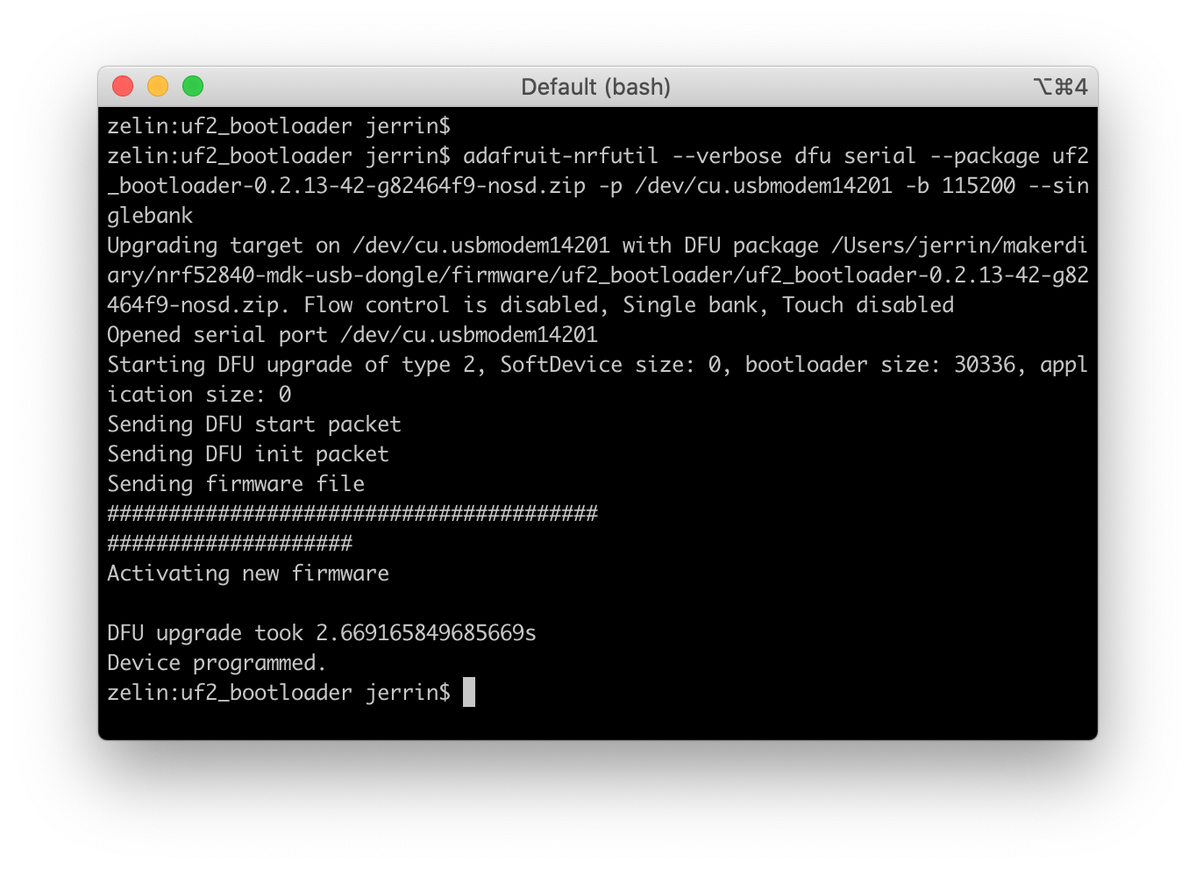
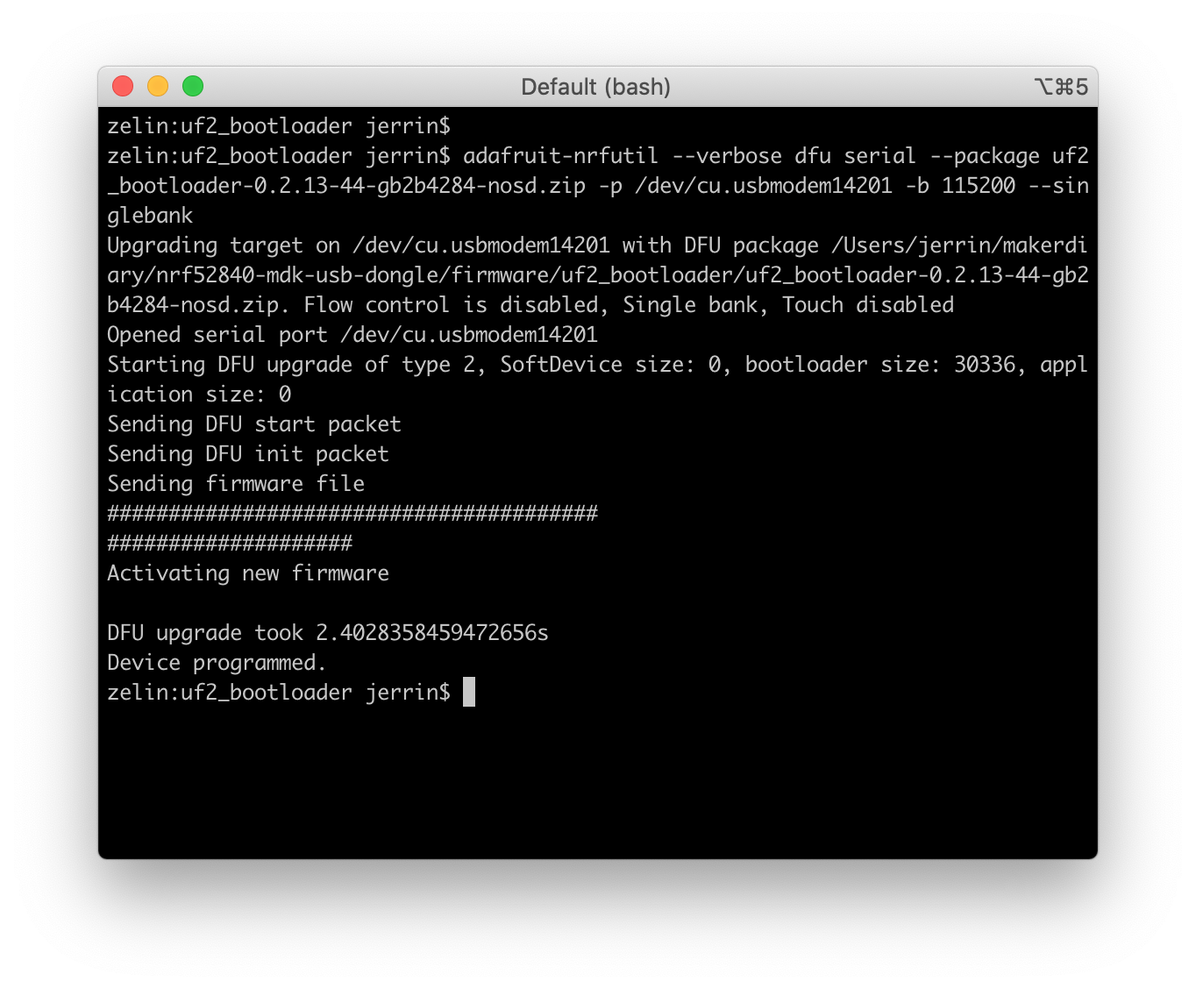
Update UF2 Bootloader to v0.2.13-44

Changed region(s): [[0.0616, 0.0625, 0.9238, 0.8125], [0.0616, 0.8438, 0.9238, 0.875], [0.8006, 0.4062, 0.9238, 0.4375]]

diff --git a/opensk/getting-started/index.html b/opensk/getting-started/index.html
@@ -19,5 +19,5 @@
       })
     }
   })
-</script><script async src=https://www.google-analytics.com/analytics.js></script></head> <body dir=ltr data-md-color-primary=red-bud data-md-color-accent=red-bud> <svg class=md-svg> <defs> <svg xmlns=http://www.w3.org/2000/svg width=416 height=448 viewbox="0 0 416 448" id=__github><path fill=currentColor d="M160 304q0 10-3.125 20.5t-10.75 19T128 352t-18.125-8.5-10.75-19T96 304t3.125-20.5 10.75-19T128 256t18.125 8.5 10.75 19T160 304zm160 0q0 10-3.125 20.5t-10.75 19T288 352t-18.125-8.5-10.75-19T256 304t3.125-20.5 10.75-19T288 256t18.125 8.5 10.75 19T320 304zm40 0q0-30-17.25-51T296 232q-10.25 0-48.75 5.25Q229.5 240 208 240t-39.25-2.75Q130.75 232 120 232q-29.5 0-46.75 21T56 304q0 22 8 38.375t20.25 25.75 30.5 15 35 7.375 37.25 1.75h42q20.5 0 37.25-1.75t35-7.375 30.5-15 20.25-25.75T360 304zm56-44q0 51.75-15.25 82.75-9.5 19.25-26.375 33.25t-35.25 21.5-42.5 11.875-42.875 5.5T212 416q-19.5 0-35.5-.75t-36.875-3.125-38.125-7.5-34.25-12.875T37 371.5t-21.5-28.75Q0 312 0 260q0-59.25 34-99-6.75-20.5-6.75-42.5 0-29 12.75-54.5 27 0 47.5 9.875t47.25 30.875Q171.5 96 212 96q37 0 70 8 26.25-20.5 46.75-30.25T376 64q12.75 25.5 12.75 54.5 0 21.75-6.75 42 34 40 34 99.5z"/></svg> </defs> </svg> <input class=md-toggle data-md-toggle=drawer type=checkbox id=__drawer autocomplete=off> <input class=md-toggle data-md-toggle=search type=checkbox id=__search autocomplete=off> <label class=md-overlay data-md-component=overlay for=__drawer></label> <a href=#getting-started-with-opensk tabindex=0 class=md-skip> Skip to content </a> <header class=md-header data-md-component=header> <nav class="md-header-nav md-grid"> <div class=md-flex> <div class="md-flex__cell md-flex__cell--shrink"> <a href=https://wiki.makerdiary.com/nrf52840-mdk-usb-dongle/ title="nRF52840 MDK USB Dongle" aria-label="nRF52840 MDK USB Dongle" class="md-header-nav__button md-logo"> <img alt=logo src=../../assets/images/logo.svg width=24 height=24> </a> </div> <div class="md-flex__cell md-flex__cell--shrink"> <label class="md-icon md-icon--menu md-header-nav__button" for=__drawer></label> </div> <div class="md-flex__cell md-flex__cell--stretch"> <div class="md-flex__ellipsis md-header-nav__title" data-md-component=title> <span class=md-header-nav__topic> nRF52840 MDK USB Dongle </span> <span class=md-header-nav__topic> Getting Started </span> </div> </div> <div class="md-flex__cell md-flex__cell--shrink"> <label class="md-icon md-icon--search md-header-nav__button" for=__search></label> <div class=md-search data-md-component=search role=dialog> <label class=md-search__overlay for=__search></label> <div class=md-search__inner role=search> <form class=md-search__form name=search> <input type=text class=md-search__input aria-label=search name=query placeholder=Search autocapitalize=off autocorrect=off autocomplete=off spellcheck=false data-md-component=query data-md-state=active> <label class="md-icon md-search__icon" for=__search></label> <button type=reset class="md-icon md-search__icon" data-md-component=reset tabindex=-1> &#xE5CD; </button> </form> <div class=md-search__output> <div class=md-search__scrollwrap data-md-scrollfix> <div class=md-search-result data-md-component=result> <div class=md-search-result__meta> Type to start searching </div> <ol class=md-search-result__list></ol> </div> </div> </div> </div> </div> </div> <div class="md-flex__cell md-flex__cell--shrink"> <div class=md-header-nav__source> <a href=https://github.com/makerdiary/nrf52840-mdk-usb-dongle/ title="Go to repository" class=md-source data-md-source=github> <div class=md-source__icon> <svg viewbox="0 0 24 24" width=24 height=24> <use xlink:href=#__github width=24 height=24></use> </svg> </div> <div class=md-source__repository> nrf52840-mdk-usb-dongle </div> </a> </div> </div> </div> </nav> </header> <div class=md-container> <nav class="md-tabs md-tabs--active" data-md-component=tabs> <div class="md-tabs__inner md-grid"> <ul class=md-tabs__list> <li class=md-tabs__item> <a href=../.. class=md-tabs__link> Introduction </a> </li> <li class=md-tabs__item> <a href=../ class="md-tabs__link md-tabs__link--active"> OpenSK </a> </li> </ul> </div> </nav> <main class=md-main role=main> <div class="md-main__inner md-grid" data-md-component=container> <div class="md-sidebar md-sidebar--primary" data-md-component=navigation> <div class=md-sidebar__scrollwrap> <div class=md-sidebar__inner> <nav class="md-nav md-nav--primary" data-md-level=0> <label class="md-nav__title md-nav__title--site" for=__drawer> <a href=https://wiki.makerdiary.com/nrf52840-mdk-usb-dongle/ title="nRF52840 MDK USB Dongle" class="md-nav__button md-logo"> <img alt=logo src=../../assets/images/logo.svg width=48 height=48> </a> nRF52840 MDK USB Dongle </label> <div class=md-nav__source> <a href=https://github.com/makerdiary/nrf52840-mdk-usb-dongle/ title="Go to repository" class=md-source data-md-source=github> <div class=md-source__icon> <svg viewbox="0 0 24 24" width=24 height=24> <use xlink:href=#__github width=24 height=24></use> </svg> </div> <div class=md-source__repository> nrf52840-mdk-usb-dongle </div> </a> </div> <ul class=md-nav__list data-md-scrollfix> <li class=md-nav__item> <a href=../.. title=Introduction class=md-nav__link> Introduction </a> </li> <li class=md-nav__item> <a href=../../getting-started/ title="Getting Started" class=md-nav__link> Getting Started </a> </li> <li class=md-nav__item> <a href=../../programming/ title=Programming class=md-nav__link> Programming </a> </li> <li class=md-nav__item> <a href=../../nrf5-sdk/ title="nRF5 SDK" class=md-nav__link> nRF5 SDK </a> </li> <li class=md-nav__item> <a href=../../OTBR/ title="OpenThread Border Router" class=md-nav__link> OpenThread Border Router </a> </li> <li class=md-nav__item> <a href=../../thread-sniffer/ title="Thread Network Sniffer" class=md-nav__link> Thread Network Sniffer </a> </li> <li class="md-nav__item md-nav__item--active md-nav__item--nested"> <input class="md-toggle md-nav__toggle" data-md-toggle=nav-7 type=checkbox id=nav-7 checked> <label class=md-nav__link for=nav-7> OpenSK </label> <nav class=md-nav data-md-component=collapsible data-md-level=1> <label class=md-nav__title for=nav-7> OpenSK </label> <ul class=md-nav__list data-md-scrollfix> <li class=md-nav__item> <a href=../ title=Overview class=md-nav__link> Overview </a> </li> <li class="md-nav__item md-nav__item--active"> <input class="md-toggle md-nav__toggle" data-md-toggle=toc type=checkbox id=__toc> <label class="md-nav__link md-nav__link--active" for=__toc> Getting Started </label> <a href=./ title="Getting Started" class="md-nav__link md-nav__link--active"> Getting Started </a> <nav class="md-nav md-nav--secondary"> <label class=md-nav__title for=__toc>Table of contents</label> <ul class=md-nav__list data-md-scrollfix> <li class=md-nav__item> <a href=#introduction class=md-nav__link> Introduction </a> </li> <li class=md-nav__item> <a href=#what-youll-need class=md-nav__link> What you'll need </a> </li> <li class=md-nav__item> <a href=#upgrade-to-uf2-bootloader class=md-nav__link> Upgrade to UF2 Bootloader </a> </li> <li class=md-nav__item> <a href=#flash-opensk-via-uf2-bootloader class=md-nav__link> Flash OpenSK via UF2 Bootloader </a> </li> <li class=md-nav__item> <a href=#test-opensk class=md-nav__link> Test OpenSK </a> </li> <li class=md-nav__item> <a href=#explore-more class=md-nav__link> Explore More </a> </li> <li class=md-nav__item> <a href=#create-an-issue class=md-nav__link> Create an Issue </a> </li> </ul> </nav> </li> <li class=md-nav__item> <a href=../building/ title="How to build OpenSK" class=md-nav__link> How to build OpenSK </a> </li> </ul> </nav> </li> <li class=md-nav__item> <a href=../../how-to-buy/ title="How to Buy" class=md-nav__link> How to Buy </a> </li> <li class=md-nav__item> <a href=../../CONTRIBUTING/ title=Contributing class=md-nav__link> Contributing </a> </li> <li class=md-nav__item> <a href=../../LICENSE/ title=License class=md-nav__link> License </a> </li> </ul> </nav> </div> </div> </div> <div class="md-sidebar md-sidebar--secondary" data-md-component=toc> <div class=md-sidebar__scrollwrap> <div class=md-sidebar__inner> <nav class="md-nav md-nav--secondary"> <label class=md-nav__title for=__toc>Table of contents</label> <ul class=md-nav__list data-md-scrollfix> <li class=md-nav__item> <a href=#introduction class=md-nav__link> Introduction </a> </li> <li class=md-nav__item> <a href=#what-youll-need class=md-nav__link> What you'll need </a> </li> <li class=md-nav__item> <a href=#upgrade-to-uf2-bootloader class=md-nav__link> Upgrade to UF2 Bootloader </a> </li> <li class=md-nav__item> <a href=#flash-opensk-via-uf2-bootloader class=md-nav__link> Flash OpenSK via UF2 Bootloader </a> </li> <li class=md-nav__item> <a href=#test-opensk class=md-nav__link> Test OpenSK </a> </li> <li class=md-nav__item> <a href=#explore-more class=md-nav__link> Explore More </a> </li> <li class=md-nav__item> <a href=#create-an-issue class=md-nav__link> Create an Issue </a> </li> </ul> </nav> </div> </div> </div> <div class=md-content> <article class="md-content__inner md-typeset"> <a href=https://github.com/makerdiary/nrf52840-mdk-usb-dongle/docs/opensk/getting-started.md title="Edit this page" class="md-icon md-content__icon">&#xE3C9;</a> <h1 id=getting-started-with-opensk>Getting Started with OpenSK<a class=headerlink href=#getting-started-with-opensk title="Permanent link">&para;</a></h1> <h2 id=introduction>Introduction<a class=headerlink href=#introduction title="Permanent link">&para;</a></h2> <p>This guide details how to get started with the OpenSK using the nRF52840 MDK USB Dongle without going through the complete toolchain installation.</p> <h2 id=what-youll-need>What you'll need<a class=headerlink href=#what-youll-need title="Permanent link">&para;</a></h2> <ul> <li>An <a href="https://store.makerdiary.com/search?q=nrf52840+dongle">nRF52840 MDK USB Dongle</a></li> <li>Latest version of Google Chrome browser (or at least version 38) or Firefox browser</li> </ul> <h2 id=upgrade-to-uf2-bootloader>Upgrade to UF2 Bootloader<a class=headerlink href=#upgrade-to-uf2-bootloader title="Permanent link">&para;</a></h2> <p>The nRF52840 MDK USB Dongle was previously shipped with <a href=https://github.com/makerdiary/nrf52840-mdk-usb-dongle/tree/master/firmware/open_bootloader>Open Bootloader</a> with Device Firmware Update (DFU) functionality.</p> <p>Currently, the prebuilt OpenSK firmware only works with the UF2 Bootloader. If your dongle is using UF2 Bootloader, just skip this step.</p> <div class="admonition note"> <p class=admonition-title>Note</p> <p>As Open Bootloader update must come from signed packages, the new UF2 Bootloader must be signed. The signed package is located in: <a href=https://github.com/makerdiary/nrf52840-mdk-usb-dongle/tree/master/firmware/open_bootloader>firmware/open_bootloader/uf2_bootloader-0.2.13-42-g82464f9-nosd_signed.zip</a></p> </div> <p>Enter DFU mode by holding the dongle's RESET/USR button and connecting to your PC. Use the following command to update firmware:</p> <div class=codehilite><pre><span></span>nrfutil dfu usb-serial -pkg uf2_bootloader-0.2.13-42-g82464f9-nosd_signed.zip -p &lt;your-serial-port-name&gt;
+</script><script async src=https://www.google-analytics.com/analytics.js></script></head> <body dir=ltr data-md-color-primary=red-bud data-md-color-accent=red-bud> <svg class=md-svg> <defs> <svg xmlns=http://www.w3.org/2000/svg width=416 height=448 viewbox="0 0 416 448" id=__github><path fill=currentColor d="M160 304q0 10-3.125 20.5t-10.75 19T128 352t-18.125-8.5-10.75-19T96 304t3.125-20.5 10.75-19T128 256t18.125 8.5 10.75 19T160 304zm160 0q0 10-3.125 20.5t-10.75 19T288 352t-18.125-8.5-10.75-19T256 304t3.125-20.5 10.75-19T288 256t18.125 8.5 10.75 19T320 304zm40 0q0-30-17.25-51T296 232q-10.25 0-48.75 5.25Q229.5 240 208 240t-39.25-2.75Q130.75 232 120 232q-29.5 0-46.75 21T56 304q0 22 8 38.375t20.25 25.75 30.5 15 35 7.375 37.25 1.75h42q20.5 0 37.25-1.75t35-7.375 30.5-15 20.25-25.75T360 304zm56-44q0 51.75-15.25 82.75-9.5 19.25-26.375 33.25t-35.25 21.5-42.5 11.875-42.875 5.5T212 416q-19.5 0-35.5-.75t-36.875-3.125-38.125-7.5-34.25-12.875T37 371.5t-21.5-28.75Q0 312 0 260q0-59.25 34-99-6.75-20.5-6.75-42.5 0-29 12.75-54.5 27 0 47.5 9.875t47.25 30.875Q171.5 96 212 96q37 0 70 8 26.25-20.5 46.75-30.25T376 64q12.75 25.5 12.75 54.5 0 21.75-6.75 42 34 40 34 99.5z"/></svg> </defs> </svg> <input class=md-toggle data-md-toggle=drawer type=checkbox id=__drawer autocomplete=off> <input class=md-toggle data-md-toggle=search type=checkbox id=__search autocomplete=off> <label class=md-overlay data-md-component=overlay for=__drawer></label> <a href=#getting-started-with-opensk tabindex=0 class=md-skip> Skip to content </a> <header class=md-header data-md-component=header> <nav class="md-header-nav md-grid"> <div class=md-flex> <div class="md-flex__cell md-flex__cell--shrink"> <a href=https://wiki.makerdiary.com/nrf52840-mdk-usb-dongle/ title="nRF52840 MDK USB Dongle" aria-label="nRF52840 MDK USB Dongle" class="md-header-nav__button md-logo"> <img alt=logo src=../../assets/images/logo.svg width=24 height=24> </a> </div> <div class="md-flex__cell md-flex__cell--shrink"> <label class="md-icon md-icon--menu md-header-nav__button" for=__drawer></label> </div> <div class="md-flex__cell md-flex__cell--stretch"> <div class="md-flex__ellipsis md-header-nav__title" data-md-component=title> <span class=md-header-nav__topic> nRF52840 MDK USB Dongle </span> <span class=md-header-nav__topic> Getting Started </span> </div> </div> <div class="md-flex__cell md-flex__cell--shrink"> <label class="md-icon md-icon--search md-header-nav__button" for=__search></label> <div class=md-search data-md-component=search role=dialog> <label class=md-search__overlay for=__search></label> <div class=md-search__inner role=search> <form class=md-search__form name=search> <input type=text class=md-search__input aria-label=search name=query placeholder=Search autocapitalize=off autocorrect=off autocomplete=off spellcheck=false data-md-component=query data-md-state=active> <label class="md-icon md-search__icon" for=__search></label> <button type=reset class="md-icon md-search__icon" data-md-component=reset tabindex=-1> &#xE5CD; </button> </form> <div class=md-search__output> <div class=md-search__scrollwrap data-md-scrollfix> <div class=md-search-result data-md-component=result> <div class=md-search-result__meta> Type to start searching </div> <ol class=md-search-result__list></ol> </div> </div> </div> </div> </div> </div> <div class="md-flex__cell md-flex__cell--shrink"> <div class=md-header-nav__source> <a href=https://github.com/makerdiary/nrf52840-mdk-usb-dongle/ title="Go to repository" class=md-source data-md-source=github> <div class=md-source__icon> <svg viewbox="0 0 24 24" width=24 height=24> <use xlink:href=#__github width=24 height=24></use> </svg> </div> <div class=md-source__repository> nrf52840-mdk-usb-dongle </div> </a> </div> </div> </div> </nav> </header> <div class=md-container> <nav class="md-tabs md-tabs--active" data-md-component=tabs> <div class="md-tabs__inner md-grid"> <ul class=md-tabs__list> <li class=md-tabs__item> <a href=../.. class=md-tabs__link> Introduction </a> </li> <li class=md-tabs__item> <a href=../ class="md-tabs__link md-tabs__link--active"> OpenSK </a> </li> </ul> </div> </nav> <main class=md-main role=main> <div class="md-main__inner md-grid" data-md-component=container> <div class="md-sidebar md-sidebar--primary" data-md-component=navigation> <div class=md-sidebar__scrollwrap> <div class=md-sidebar__inner> <nav class="md-nav md-nav--primary" data-md-level=0> <label class="md-nav__title md-nav__title--site" for=__drawer> <a href=https://wiki.makerdiary.com/nrf52840-mdk-usb-dongle/ title="nRF52840 MDK USB Dongle" class="md-nav__button md-logo"> <img alt=logo src=../../assets/images/logo.svg width=48 height=48> </a> nRF52840 MDK USB Dongle </label> <div class=md-nav__source> <a href=https://github.com/makerdiary/nrf52840-mdk-usb-dongle/ title="Go to repository" class=md-source data-md-source=github> <div class=md-source__icon> <svg viewbox="0 0 24 24" width=24 height=24> <use xlink:href=#__github width=24 height=24></use> </svg> </div> <div class=md-source__repository> nrf52840-mdk-usb-dongle </div> </a> </div> <ul class=md-nav__list data-md-scrollfix> <li class=md-nav__item> <a href=../.. title=Introduction class=md-nav__link> Introduction </a> </li> <li class=md-nav__item> <a href=../../getting-started/ title="Getting Started" class=md-nav__link> Getting Started </a> </li> <li class=md-nav__item> <a href=../../programming/ title=Programming class=md-nav__link> Programming </a> </li> <li class=md-nav__item> <a href=../../nrf5-sdk/ title="nRF5 SDK" class=md-nav__link> nRF5 SDK </a> </li> <li class=md-nav__item> <a href=../../OTBR/ title="OpenThread Border Router" class=md-nav__link> OpenThread Border Router </a> </li> <li class=md-nav__item> <a href=../../thread-sniffer/ title="Thread Network Sniffer" class=md-nav__link> Thread Network Sniffer </a> </li> <li class="md-nav__item md-nav__item--active md-nav__item--nested"> <input class="md-toggle md-nav__toggle" data-md-toggle=nav-7 type=checkbox id=nav-7 checked> <label class=md-nav__link for=nav-7> OpenSK </label> <nav class=md-nav data-md-component=collapsible data-md-level=1> <label class=md-nav__title for=nav-7> OpenSK </label> <ul class=md-nav__list data-md-scrollfix> <li class=md-nav__item> <a href=../ title=Overview class=md-nav__link> Overview </a> </li> <li class="md-nav__item md-nav__item--active"> <input class="md-toggle md-nav__toggle" data-md-toggle=toc type=checkbox id=__toc> <label class="md-nav__link md-nav__link--active" for=__toc> Getting Started </label> <a href=./ title="Getting Started" class="md-nav__link md-nav__link--active"> Getting Started </a> <nav class="md-nav md-nav--secondary"> <label class=md-nav__title for=__toc>Table of contents</label> <ul class=md-nav__list data-md-scrollfix> <li class=md-nav__item> <a href=#introduction class=md-nav__link> Introduction </a> </li> <li class=md-nav__item> <a href=#what-youll-need class=md-nav__link> What you'll need </a> </li> <li class=md-nav__item> <a href=#upgrade-to-uf2-bootloader class=md-nav__link> Upgrade to UF2 Bootloader </a> </li> <li class=md-nav__item> <a href=#flash-opensk-via-uf2-bootloader class=md-nav__link> Flash OpenSK via UF2 Bootloader </a> </li> <li class=md-nav__item> <a href=#test-opensk class=md-nav__link> Test OpenSK </a> </li> <li class=md-nav__item> <a href=#explore-more class=md-nav__link> Explore More </a> </li> <li class=md-nav__item> <a href=#create-an-issue class=md-nav__link> Create an Issue </a> </li> </ul> </nav> </li> <li class=md-nav__item> <a href=../building/ title="How to build OpenSK" class=md-nav__link> How to build OpenSK </a> </li> </ul> </nav> </li> <li class=md-nav__item> <a href=../../how-to-buy/ title="How to Buy" class=md-nav__link> How to Buy </a> </li> <li class=md-nav__item> <a href=../../CONTRIBUTING/ title=Contributing class=md-nav__link> Contributing </a> </li> <li class=md-nav__item> <a href=../../LICENSE/ title=License class=md-nav__link> License </a> </li> </ul> </nav> </div> </div> </div> <div class="md-sidebar md-sidebar--secondary" data-md-component=toc> <div class=md-sidebar__scrollwrap> <div class=md-sidebar__inner> <nav class="md-nav md-nav--secondary"> <label class=md-nav__title for=__toc>Table of contents</label> <ul class=md-nav__list data-md-scrollfix> <li class=md-nav__item> <a href=#introduction class=md-nav__link> Introduction </a> </li> <li class=md-nav__item> <a href=#what-youll-need class=md-nav__link> What you'll need </a> </li> <li class=md-nav__item> <a href=#upgrade-to-uf2-bootloader class=md-nav__link> Upgrade to UF2 Bootloader </a> </li> <li class=md-nav__item> <a href=#flash-opensk-via-uf2-bootloader class=md-nav__link> Flash OpenSK via UF2 Bootloader </a> </li> <li class=md-nav__item> <a href=#test-opensk class=md-nav__link> Test OpenSK </a> </li> <li class=md-nav__item> <a href=#explore-more class=md-nav__link> Explore More </a> </li> <li class=md-nav__item> <a href=#create-an-issue class=md-nav__link> Create an Issue </a> </li> </ul> </nav> </div> </div> </div> <div class=md-content> <article class="md-content__inner md-typeset"> <a href=https://github.com/makerdiary/nrf52840-mdk-usb-dongle/docs/opensk/getting-started.md title="Edit this page" class="md-icon md-content__icon">&#xE3C9;</a> <h1 id=getting-started-with-opensk>Getting Started with OpenSK<a class=headerlink href=#getting-started-with-opensk title="Permanent link">&para;</a></h1> <h2 id=introduction>Introduction<a class=headerlink href=#introduction title="Permanent link">&para;</a></h2> <p>This guide details how to get started with the OpenSK using the nRF52840 MDK USB Dongle without going through the complete toolchain installation.</p> <h2 id=what-youll-need>What you'll need<a class=headerlink href=#what-youll-need title="Permanent link">&para;</a></h2> <ul> <li>An <a href="https://store.makerdiary.com/search?q=nrf52840+dongle">nRF52840 MDK USB Dongle</a></li> <li>Latest version of Google Chrome browser (or at least version 38) or Firefox browser</li> </ul> <h2 id=upgrade-to-uf2-bootloader>Upgrade to UF2 Bootloader<a class=headerlink href=#upgrade-to-uf2-bootloader title="Permanent link">&para;</a></h2> <p>The nRF52840 MDK USB Dongle was previously shipped with <a href=https://github.com/makerdiary/nrf52840-mdk-usb-dongle/tree/master/firmware/open_bootloader>Open Bootloader</a> with Device Firmware Update (DFU) functionality.</p> <p>Currently, the prebuilt OpenSK firmware only works with the UF2 Bootloader. If your dongle is using UF2 Bootloader, just skip this step.</p> <div class="admonition note"> <p class=admonition-title>Note</p> <p>As Open Bootloader update must come from signed packages, the new UF2 Bootloader must be signed. The signed package is located in: <a href=https://github.com/makerdiary/nrf52840-mdk-usb-dongle/tree/master/firmware/open_bootloader>firmware/open_bootloader/uf2_bootloader-0.2.13-44-gb2b4284-nosd_signed.zip</a></p> </div> <p>Enter DFU mode by holding the dongle's RESET/USR button and connecting to your PC. Use the following command to update firmware:</p> <div class=codehilite><pre><span></span>nrfutil dfu usb-serial -pkg uf2_bootloader-0.2.13-44-gb2b4284-nosd_signed.zip -p &lt;your-serial-port-name&gt;
 </pre></div> <p><img alt src=../assets/images/upgrade-to-uf2-bootloader.png></p> <h2 id=flash-opensk-via-uf2-bootloader>Flash OpenSK via UF2 Bootloader<a class=headerlink href=#flash-opensk-via-uf2-bootloader title="Permanent link">&para;</a></h2> <p>The prebuilt OpenSK firmware is located in <a href=https://github.com/makerdiary/nrf52840-mdk-usb-dongle/tree/master/firmware/OpenSK>firmware/OpenSK</a> with the <code>.uf2</code>-format.</p> <p>Enter DFU mode by holding the dongle's RESET/USR button and connecting to your PC. A flash drive with the name <strong>MDK-DONGLE</strong> will appear.</p> <p>Copy <code>opensk_nrf52840_mdk_usb_dongle_gece14d7.uf2</code> image to <strong>MDK-DONGLE</strong>. </p> <p><img alt src=../assets/images/copying-opensk-image.png></p> <p>When programming is completed, the OpenSK will run automatically. The device named <strong>OpenSK</strong> will detected by the computer.</p> <p><img alt src=../assets/images/checking-opensk-device.png></p> <h2 id=test-opensk>Test OpenSK<a class=headerlink href=#test-opensk title="Permanent link">&para;</a></h2> <p>Now you can test the OpenSK via <a href=https://webauthn.io/ >WebAuthn.io</a>:</p> <iframe width=560 height=315 src=https://www.youtube.com/embed/XEmEADLu8yk frameborder=0 allow="accelerometer; autoplay; encrypted-media; gyroscope; picture-in-picture" allowfullscreen></iframe> <h2 id=explore-more>Explore More<a class=headerlink href=#explore-more title="Permanent link">&para;</a></h2> <p>The two-factor authentication (2FA) has been successfully deployed by a growing number of websites, including Google, social networks, cloud providers, and many others. Happy trying!</p> <h2 id=create-an-issue>Create an Issue<a class=headerlink href=#create-an-issue title="Permanent link">&para;</a></h2> <p>Interested in contributing to this project? Want to report a bug? Feel free to click here:</p> <p><a href=https://github.com/makerdiary/nrf52840-mdk-usb-dongle/issues/new><button data-md-color-primary=red-bud><i class="fa fa-github"></i> Create an Issue</button></a></p> </article> </div> </div> </main> <footer class=md-footer> <div class=md-footer-nav> <nav class="md-footer-nav__inner md-grid"> <a href=../ title=Overview class="md-flex md-footer-nav__link md-footer-nav__link--prev" rel=prev> <div class="md-flex__cell md-flex__cell--shrink"> <i class="md-icon md-icon--arrow-back md-footer-nav__button"></i> </div> <div class="md-flex__cell md-flex__cell--stretch md-footer-nav__title"> <span class=md-flex__ellipsis> <span class=md-footer-nav__direction> Previous </span> Overview </span> </div> </a> <a href=../building/ title="How to build OpenSK" class="md-flex md-footer-nav__link md-footer-nav__link--next" rel=next> <div class="md-flex__cell md-flex__cell--stretch md-footer-nav__title"> <span class=md-flex__ellipsis> <span class=md-footer-nav__direction> Next </span> How to build OpenSK </span> </div> <div class="md-flex__cell md-flex__cell--shrink"> <i class="md-icon md-icon--arrow-forward md-footer-nav__button"></i> </div> </a> </nav> </div> <div class="md-footer-meta md-typeset"> <div class="md-footer-meta__inner md-grid"> <div class=md-footer-copyright> <div class=md-footer-copyright__highlight> Copyright &copy; 2019 <a href=https://makerdiary.com>makerdiary.com</a> </div> powered by <a href=https://www.mkdocs.org target=_blank rel=noopener>MkDocs</a> and <a href=https://squidfunk.github.io/mkdocs-material/ target=_blank rel=noopener> Material for MkDocs</a> </div> <div class=md-footer-social> <link rel=stylesheet href=../../assets/fonts/font-awesome.css> <a href=https://community.makerdiary.com target=_blank rel=noopener title=comments class="md-footer-social__link fa fa-comments"></a> <a href=https://makerdiary.com target=_blank rel=noopener title=globe class="md-footer-social__link fa fa-globe"></a> <a href=https://github.com/makerdiary target=_blank rel=noopener title=github-alt class="md-footer-social__link fa fa-github-alt"></a> <a href=https://twitter.com/makerdiary target=_blank rel=noopener title=twitter class="md-footer-social__link fa fa-twitter"></a> </div> </div> </div> </footer> </div> <script src=../../assets/javascripts/application.9d6c50c0.js></script> <script>app.initialize({version:"1.0.4",url:{base:"../.."}})</script> </body> </html>

diff --git a/programming/index.html b/programming/index.html
@@ -24,8 +24,8 @@
 </pre></div> <div class="admonition tip"> <p class=admonition-title>Tip</p> <p>There is no SoftDevice required here, just set <code>--sd-req</code> to <code>0x00</code>. </p> <p>Run <code>nrfutil pkg generate --help</code> for more details.</p> </div> <p>Enter DFU mode by holding the dongle's RESET/USR button and connecting to your PC. Use the following command to update firmware:</p> <div class=codehilite><pre><span></span>nrfutil dfu usb-serial -pkg app_dfu_package.zip -p &lt;your-serial-port-name&gt;
 </pre></div> <h2 id=dfu-via-uf2-bootloader>DFU via UF2 Bootloader<a class=headerlink href=#dfu-via-uf2-bootloader title="Permanent link">&para;</a></h2> <p>UF2 Bootloader is an easy-to-use bootloader that appears as a flash drive. You can just copy <code>.uf2</code>-format application images to the flash drive to load new firmware. The prebuilt UF2 Bootloader firmware is located in <a href=https://github.com/makerdiary/nrf52840-mdk-usb-dongle/tree/master/firmware/uf2_bootloader>uf2_bootloader</a>.</p> <p>To create your own UF2 DFU update image, simply use the <a href=https://github.com/makerdiary/nrf52840-mdk-usb-dongle/tree/master/tools>Python conversion script</a> on a <code>.bin</code> file or <code>.hex</code> file, specifying the family as <code>0xADA52840</code>.</p> <div class="admonition tip"> <p class=admonition-title>Tip</p> <p>If using a <code>.bin</code> file with the conversion script you must specify application address with the <code>-b</code> switch, this address depend on the SoftDevice size/version e.g S140 v6 is <code>0x26000</code>.</p> </div> <p>To create a UF2 image from a <code>.bin</code> file: <div class=codehilite><pre><span></span>uf2conv.py firmware.bin -c -b 0x26000 -f 0xADA52840
 </pre></div></p> <p>To create a UF2 image from a <code>.hex</code> file: <div class=codehilite><pre><span></span>uf2conv.py firmware.hex -c -f 0xADA52840
-</pre></div></p> <p>Enter DFU mode by holding the dongle's RESET/USR button and connecting to your PC. A flash drive with the name <strong>MDK-DONGLE</strong> will appear.</p> <p>Just copy the <code>.uf2</code>-format image to the flash drive to load new firmware. </p> <h2 id=upgrade-to-uf2-bootloader-from-open-bootloader>Upgrade to UF2 Bootloader from Open Bootloader<a class=headerlink href=#upgrade-to-uf2-bootloader-from-open-bootloader title="Permanent link">&para;</a></h2> <p>The nRF52840 MDK USB Dongle was previously shipped with <a href=https://github.com/makerdiary/nrf52840-mdk-usb-dongle/tree/master/firmware/open_bootloader>Open Bootloader</a>. You can upgrade to UF2 Bootloader to take advantage of the latest features.</p> <div class="admonition note"> <p class=admonition-title>Note</p> <p>As Open Bootloader update must come from signed packages, the new UF2 Bootloader must be signed. The signed package is located in: <a href=https://github.com/makerdiary/nrf52840-mdk-usb-dongle/tree/master/firmware/open_bootloader>firmware/open_bootloader/uf2_bootloader-0.2.13-42-g82464f9-nosd_signed.zip</a></p> </div> <p>Enter DFU mode by holding the dongle's RESET/USR button and connecting to your PC. Use the following command to update firmware:</p> <div class=codehilite><pre><span></span>nrfutil dfu usb-serial -pkg uf2_bootloader-0.2.13-42-g82464f9-nosd_signed.zip -p &lt;your-serial-port-name&gt;
+</pre></div></p> <p>Enter DFU mode by holding the dongle's RESET/USR button and connecting to your PC. A flash drive with the name <strong>MDK-DONGLE</strong> will appear.</p> <p>Just copy the <code>.uf2</code>-format image to the flash drive to load new firmware. </p> <h2 id=upgrade-to-uf2-bootloader-from-open-bootloader>Upgrade to UF2 Bootloader from Open Bootloader<a class=headerlink href=#upgrade-to-uf2-bootloader-from-open-bootloader title="Permanent link">&para;</a></h2> <p>The nRF52840 MDK USB Dongle was previously shipped with <a href=https://github.com/makerdiary/nrf52840-mdk-usb-dongle/tree/master/firmware/open_bootloader>Open Bootloader</a>. You can upgrade to UF2 Bootloader to take advantage of the latest features.</p> <div class="admonition note"> <p class=admonition-title>Note</p> <p>As Open Bootloader update must come from signed packages, the new UF2 Bootloader must be signed. The signed package is located in: <a href=https://github.com/makerdiary/nrf52840-mdk-usb-dongle/tree/master/firmware/open_bootloader>firmware/open_bootloader/uf2_bootloader-0.2.13-44-gb2b4284-nosd_signed.zip</a></p> </div> <p>Enter DFU mode by holding the dongle's RESET/USR button and connecting to your PC. Use the following command to update firmware:</p> <div class=codehilite><pre><span></span>nrfutil dfu usb-serial -pkg uf2_bootloader-0.2.13-44-gb2b4284-nosd_signed.zip -p &lt;your-serial-port-name&gt;
 </pre></div> <p><img alt src=../assets/images/upgrade-to-uf2-bootloader.png></p> <h2 id=update-uf2-bootloader>Update UF2 Bootloader<a class=headerlink href=#update-uf2-bootloader title="Permanent link">&para;</a></h2> <p>The UF2 Bootloader is self-upgradable. An update ensures you have the most recent features and improvements for your current version of UF2 Bootloader. </p> <div class="admonition tip"> <p class=admonition-title>Tip</p> <p>The latest prebuilt UF2 Bootloader is located in: <a href=https://github.com/makerdiary/nrf52840-mdk-usb-dongle/tree/master/firmware/uf2_bootloader>firmware/uf2_bootloader</a></p> </div> <p>To update UF2 Bootloader, <a href=https://github.com/adafruit/Adafruit_nRF52_nrfutil>adafruit-nrfutil</a> is needed. Run the following command to install <code>adafruit-nrfutil</code> from PyPi:</p> <div class=codehilite><pre><span></span>pip3 install --user adafruit-nrfutil
-</pre></div> <p>Here is an example of the generation of a package from a <code>.hex</code> bootloader file:</p> <div class=codehilite><pre><span></span>adafruit-nrfutil dfu genpkg --dev-type 0x0052 --dev-revision <span class=m>52840</span> --bootloader uf2_bootloader-0.2.13-42-g82464f9-nosd.hex uf2_bootloader-0.2.13-42-g82464f9-nosd.zip
-</pre></div> <p>Enter DFU mode by holding the dongle's RESET/USR button and connecting to your PC. Use the following command to update UF2 Bootloader:</p> <div class=codehilite><pre><span></span>adafruit-nrfutil --verbose dfu serial --package uf2_bootloader-0.2.13-42-g82464f9-nosd.zip -p &lt;your-serial-port-name&gt; -b <span class=m>115200</span> --singlebank
+</pre></div> <p>Here is an example of the generation of a package from a <code>.hex</code> bootloader file:</p> <div class=codehilite><pre><span></span>adafruit-nrfutil dfu genpkg --dev-type 0x0052 --dev-revision <span class=m>52840</span> --bootloader uf2_bootloader-0.2.13-44-gb2b4284-nosd.hex uf2_bootloader-0.2.13-44-gb2b4284-nosd.zip
+</pre></div> <p>Enter DFU mode by holding the dongle's RESET/USR button and connecting to your PC. Use the following command to update UF2 Bootloader:</p> <div class=codehilite><pre><span></span>adafruit-nrfutil --verbose dfu serial --package uf2_bootloader-0.2.13-44-gb2b4284-nosd.zip -p &lt;your-serial-port-name&gt; -b <span class=m>115200</span> --singlebank
 </pre></div> <p><img alt src=../assets/images/updating-uf2-bootloader.png></p> <h2 id=license>License<a class=headerlink href=#license title="Permanent link">&para;</a></h2> <p>Content on this page is licensed under the <a href=https://creativecommons.org/licenses/by/3.0/ >Creative Commons Attribution 3.0 License</a>.</p> <h2 id=create-an-issue>Create an Issue<a class=headerlink href=#create-an-issue title="Permanent link">&para;</a></h2> <p>Interested in contributing to this project? Want to report a bug? Feel free to click here:</p> <p><a href=https://github.com/makerdiary/nrf52840-mdk-usb-dongle/issues/new><button data-md-color-primary=red-bud><i class="fa fa-github"></i> Create an Issue</button></a></p> </article> </div> </div> </main> <footer class=md-footer> <div class=md-footer-nav> <nav class="md-footer-nav__inner md-grid"> <a href=../getting-started/ title="Getting Started" class="md-flex md-footer-nav__link md-footer-nav__link--prev" rel=prev> <div class="md-flex__cell md-flex__cell--shrink"> <i class="md-icon md-icon--arrow-back md-footer-nav__button"></i> </div> <div class="md-flex__cell md-flex__cell--stretch md-footer-nav__title"> <span class=md-flex__ellipsis> <span class=md-footer-nav__direction> Previous </span> Getting Started </span> </div> </a> <a href=../nrf5-sdk/ title="nRF5 SDK" class="md-flex md-footer-nav__link md-footer-nav__link--next" rel=next> <div class="md-flex__cell md-flex__cell--stretch md-footer-nav__title"> <span class=md-flex__ellipsis> <span class=md-footer-nav__direction> Next </span> nRF5 SDK </span> </div> <div class="md-flex__cell md-flex__cell--shrink"> <i class="md-icon md-icon--arrow-forward md-footer-nav__button"></i> </div> </a> </nav> </div> <div class="md-footer-meta md-typeset"> <div class="md-footer-meta__inner md-grid"> <div class=md-footer-copyright> <div class=md-footer-copyright__highlight> Copyright &copy; 2019 <a href=https://makerdiary.com>makerdiary.com</a> </div> powered by <a href=https://www.mkdocs.org target=_blank rel=noopener>MkDocs</a> and <a href=https://squidfunk.github.io/mkdocs-material/ target=_blank rel=noopener> Material for MkDocs</a> </div> <div class=md-footer-social> <link rel=stylesheet href=../assets/fonts/font-awesome.css> <a href=https://community.makerdiary.com target=_blank rel=noopener title=comments class="md-footer-social__link fa fa-comments"></a> <a href=https://makerdiary.com target=_blank rel=noopener title=globe class="md-footer-social__link fa fa-globe"></a> <a href=https://github.com/makerdiary target=_blank rel=noopener title=github-alt class="md-footer-social__link fa fa-github-alt"></a> <a href=https://twitter.com/makerdiary target=_blank rel=noopener title=twitter class="md-footer-social__link fa fa-twitter"></a> </div> </div> </div> </footer> </div> <script src=../assets/javascripts/application.9d6c50c0.js></script> <script>app.initialize({version:"1.0.4",url:{base:".."}})</script> </body> </html>
